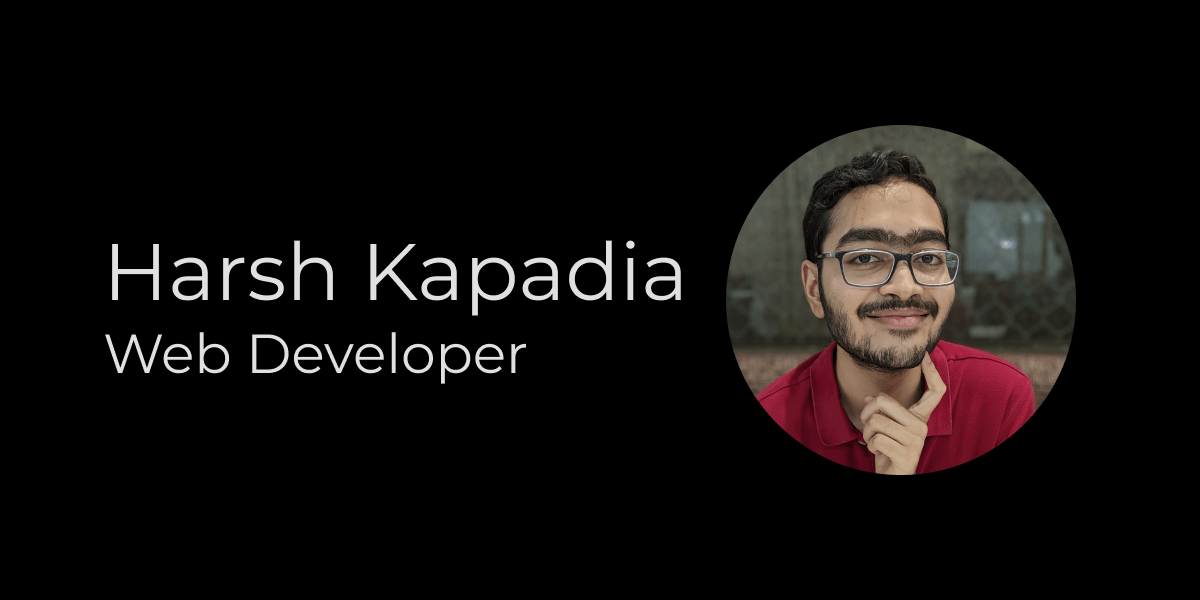
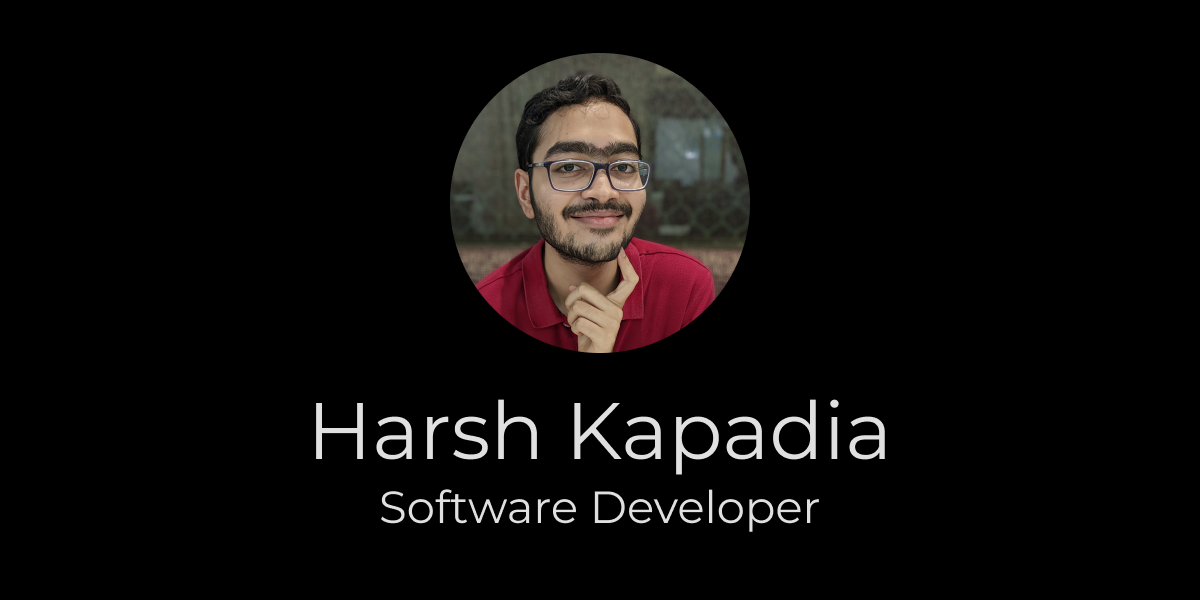
:truck: update: Change 'Web' to 'Software' in `head` & `main`

diff --git a/index.html b/index.html
@@ -6,7 +6,7 @@
 		<meta name="viewport" content="width=device-width, initial-scale=1.0" />
 		<meta name="color-scheme" content="dark" />
 
-		<title>Harsh Kapadia - Web Developer</title>
+		<title>Harsh Kapadia - Software Developer</title>
 
 		<script defer src="static/js/script.js"></script>
 
@@ -27,17 +27,14 @@
 
 		<meta
 			name="keywords"
-			content="Harsh Kapadia, OTC, Our Tech Community, Web Developer, Computer Networking, Git"
+			content="Harsh Kapadia, OTC, Our Tech Community"
 		/>
-		<meta name="description" content="Web Dev, Computer Networking, Git" />
+		<meta name="description" content="Software Developer" />
 		<meta name="author" content="Harsh Kapadia" />
 		<meta property="og:site_name" content="Harsh Kapadia" />
 		<meta property="og:title" content="Harsh Kapadia" />
 		<meta property="og:type" content="website" />
-		<meta
-			property="og:description"
-			content="Web Dev, Computer Networking, Git"
-		/>
+		<meta property="og:description" content="Software Developer" />
 		<meta property="og:url" content="https://harshkapadia.me" />
 		<meta
 			property="og:image"
@@ -108,7 +105,7 @@
 			<div id="main-col-wrapper">
 				<div id="main-col-1">
 					<h1>Harsh Kapadia</h1>
-					<h2 id="main-descp">Web Developer</h2>
+					<h2 id="main-descp">Software Developer</h2>
 
 					<div id="socials">
 						<a
